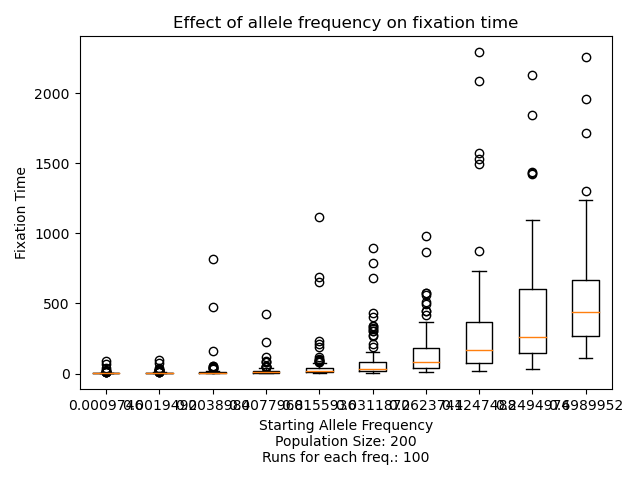
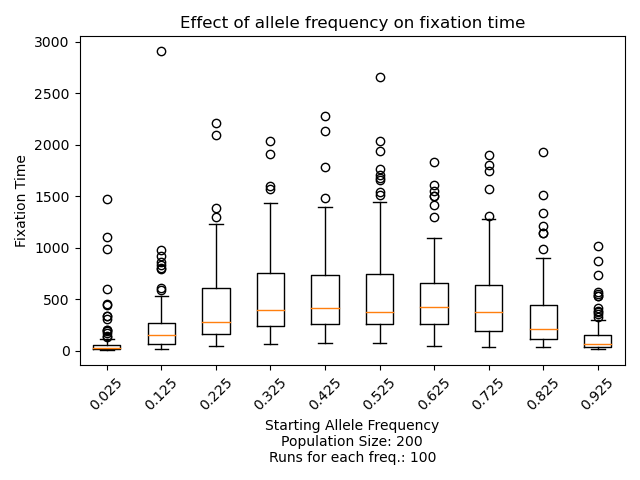
Week13 Homework Update

diff --git a/week13/week13.py b/week13/week13.py
@@ -88,7 +88,7 @@ def run_sim(start_al_freq, pop_size, n_iters):
 
 # 5 - simulation under different allele frequencies with same population size
 pop_size = 200
-al_freq = 0.0009746
+al_freq = 0.025
 n_iters = 100
 fix_times = []
 al_freqs = []
@@ -98,7 +98,8 @@ for i in range(10):
     # run_sim and save to fix_times list
     fix_time = run_sim(al_freq, pop_size, n_iters)
     fix_times.append(fix_time)
-    al_freq = al_freq*2
+    al_freq = round(al_freq + 0.1, 3)
+    
 
 fig, ax = plt.subplots()
 ax.boxplot(fix_times)
@@ -106,6 +107,7 @@ ax.set_xlabel(f"Starting Allele Frequency\nPopulation Size: {pop_size}\nRuns for
 ax.set_ylabel("Fixation Time")
 ax.set_title("Effect of allele frequency on fixation time")
 ax.set_xticklabels(al_freqs)
+plt.xticks(rotation=45)
 plt.tight_layout()
 plt.savefig("5.png")
 plt.close()
